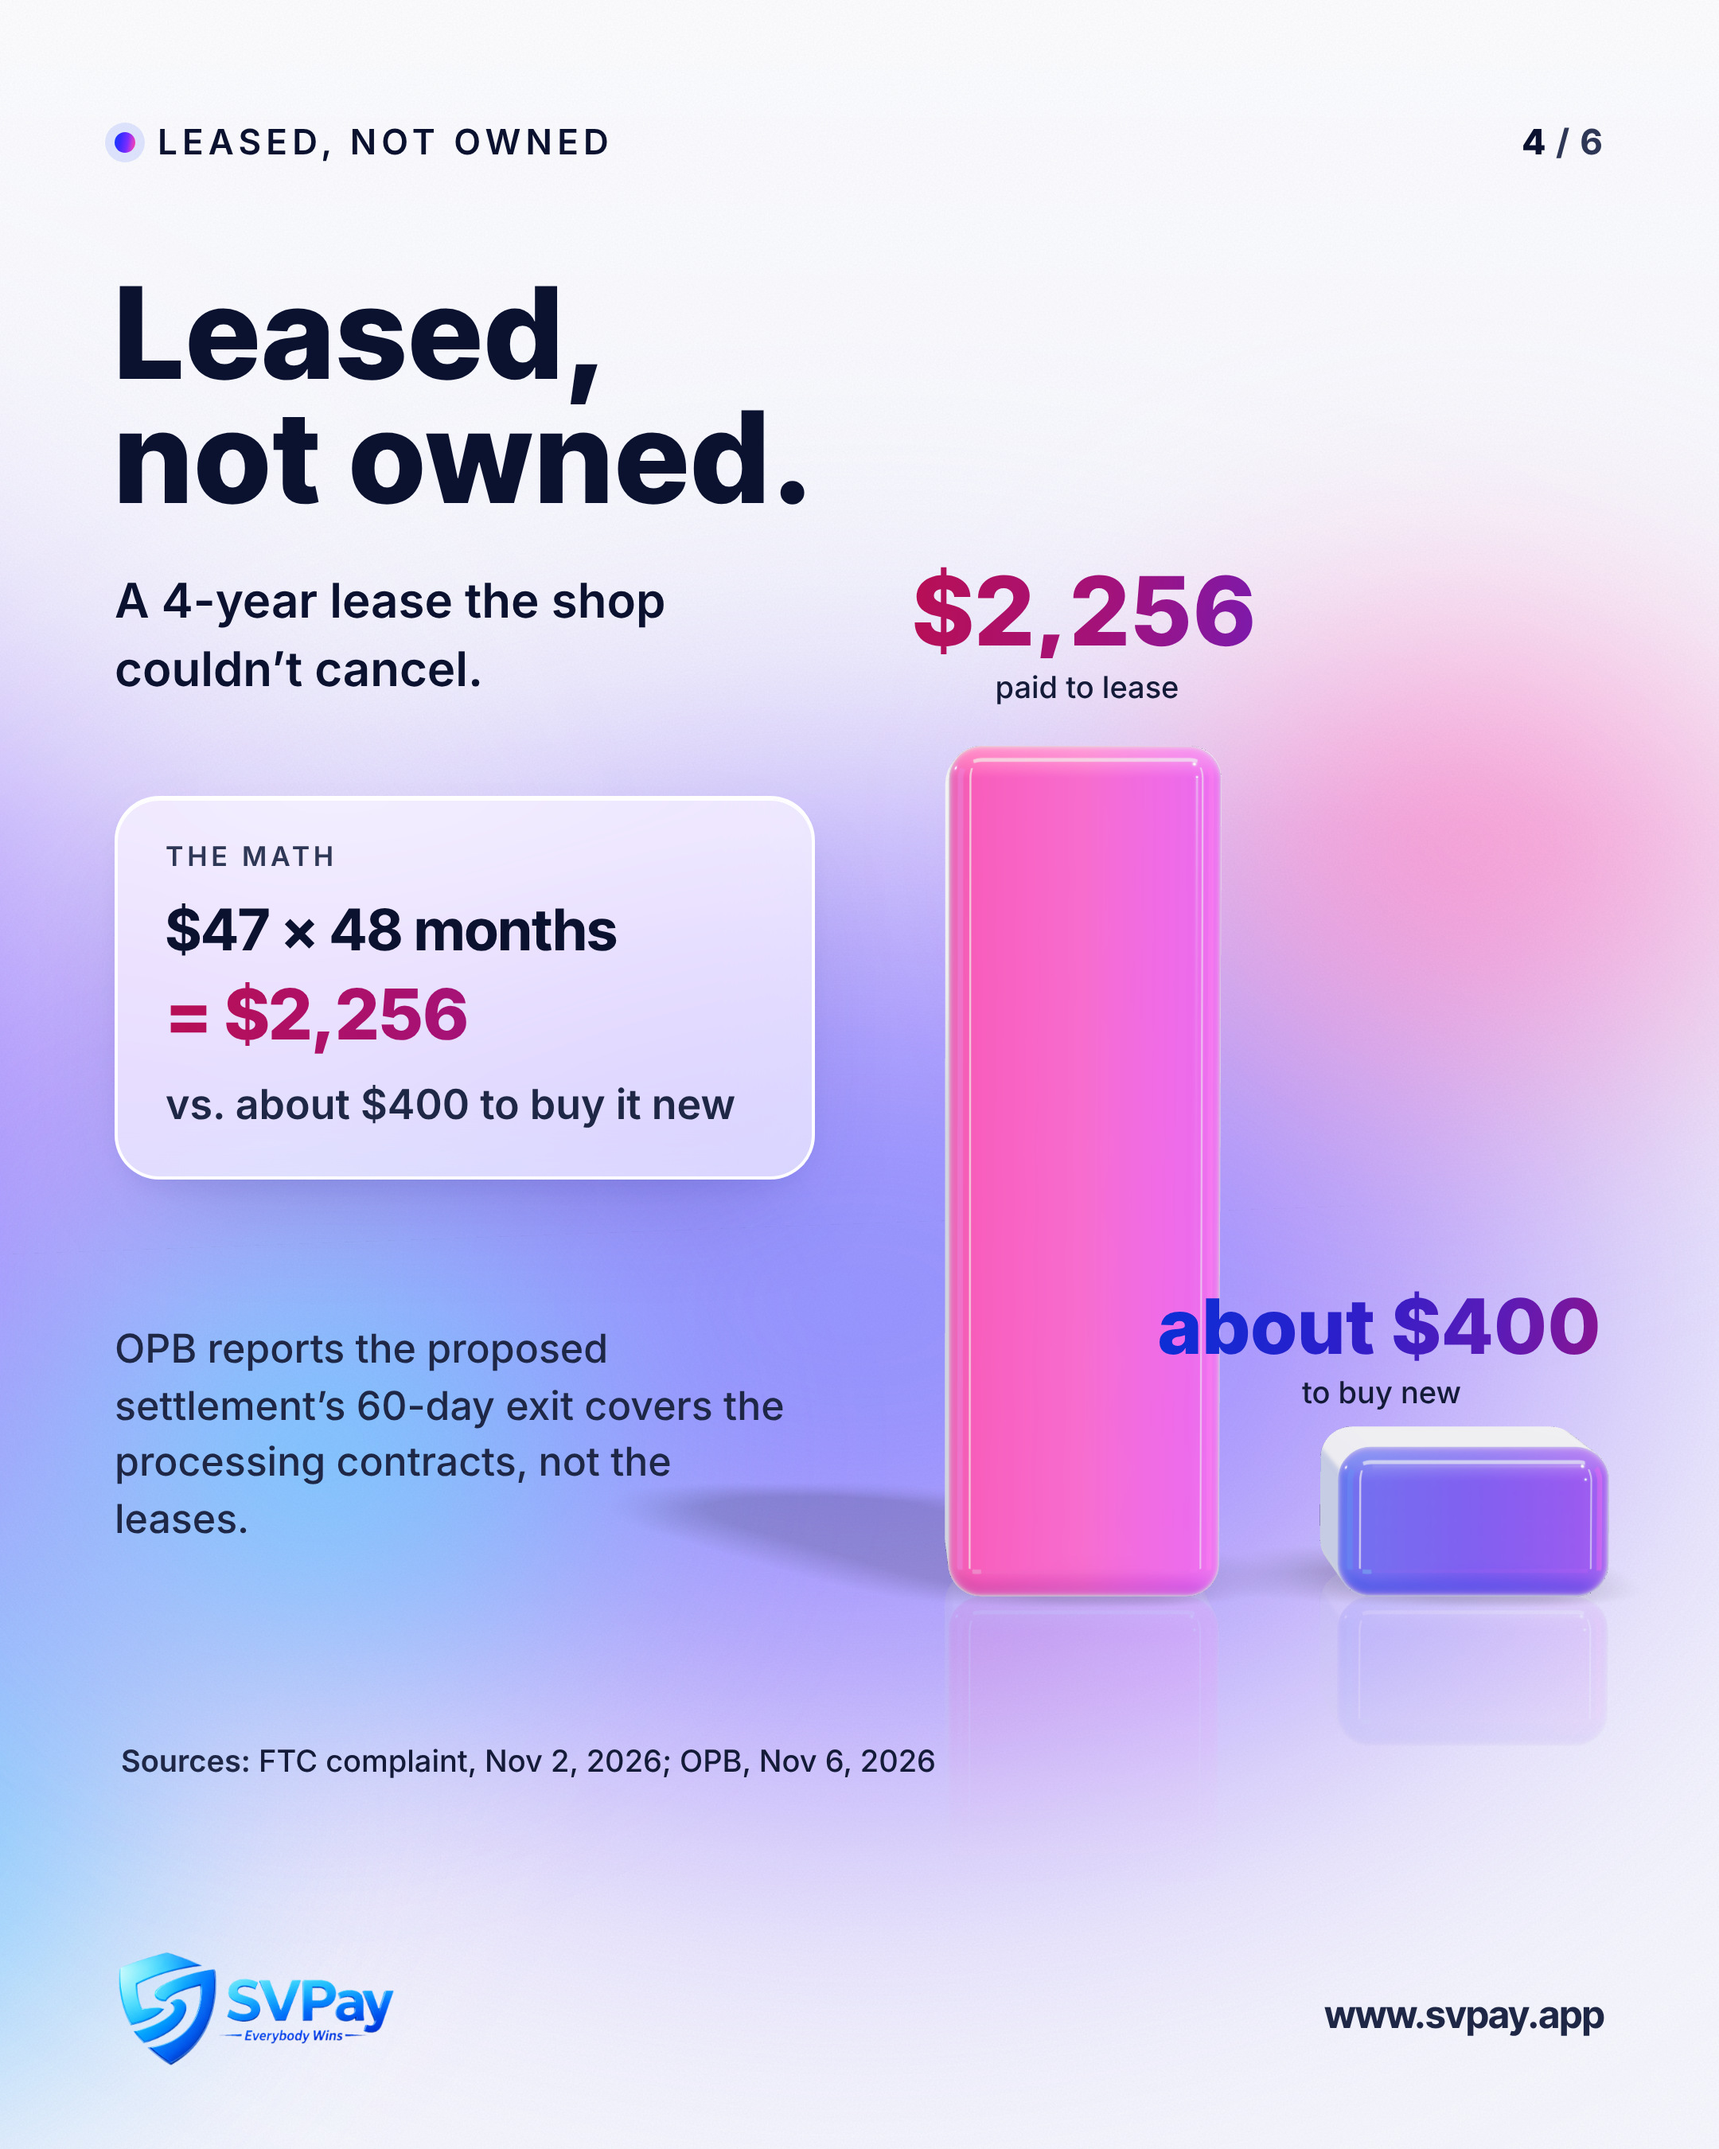
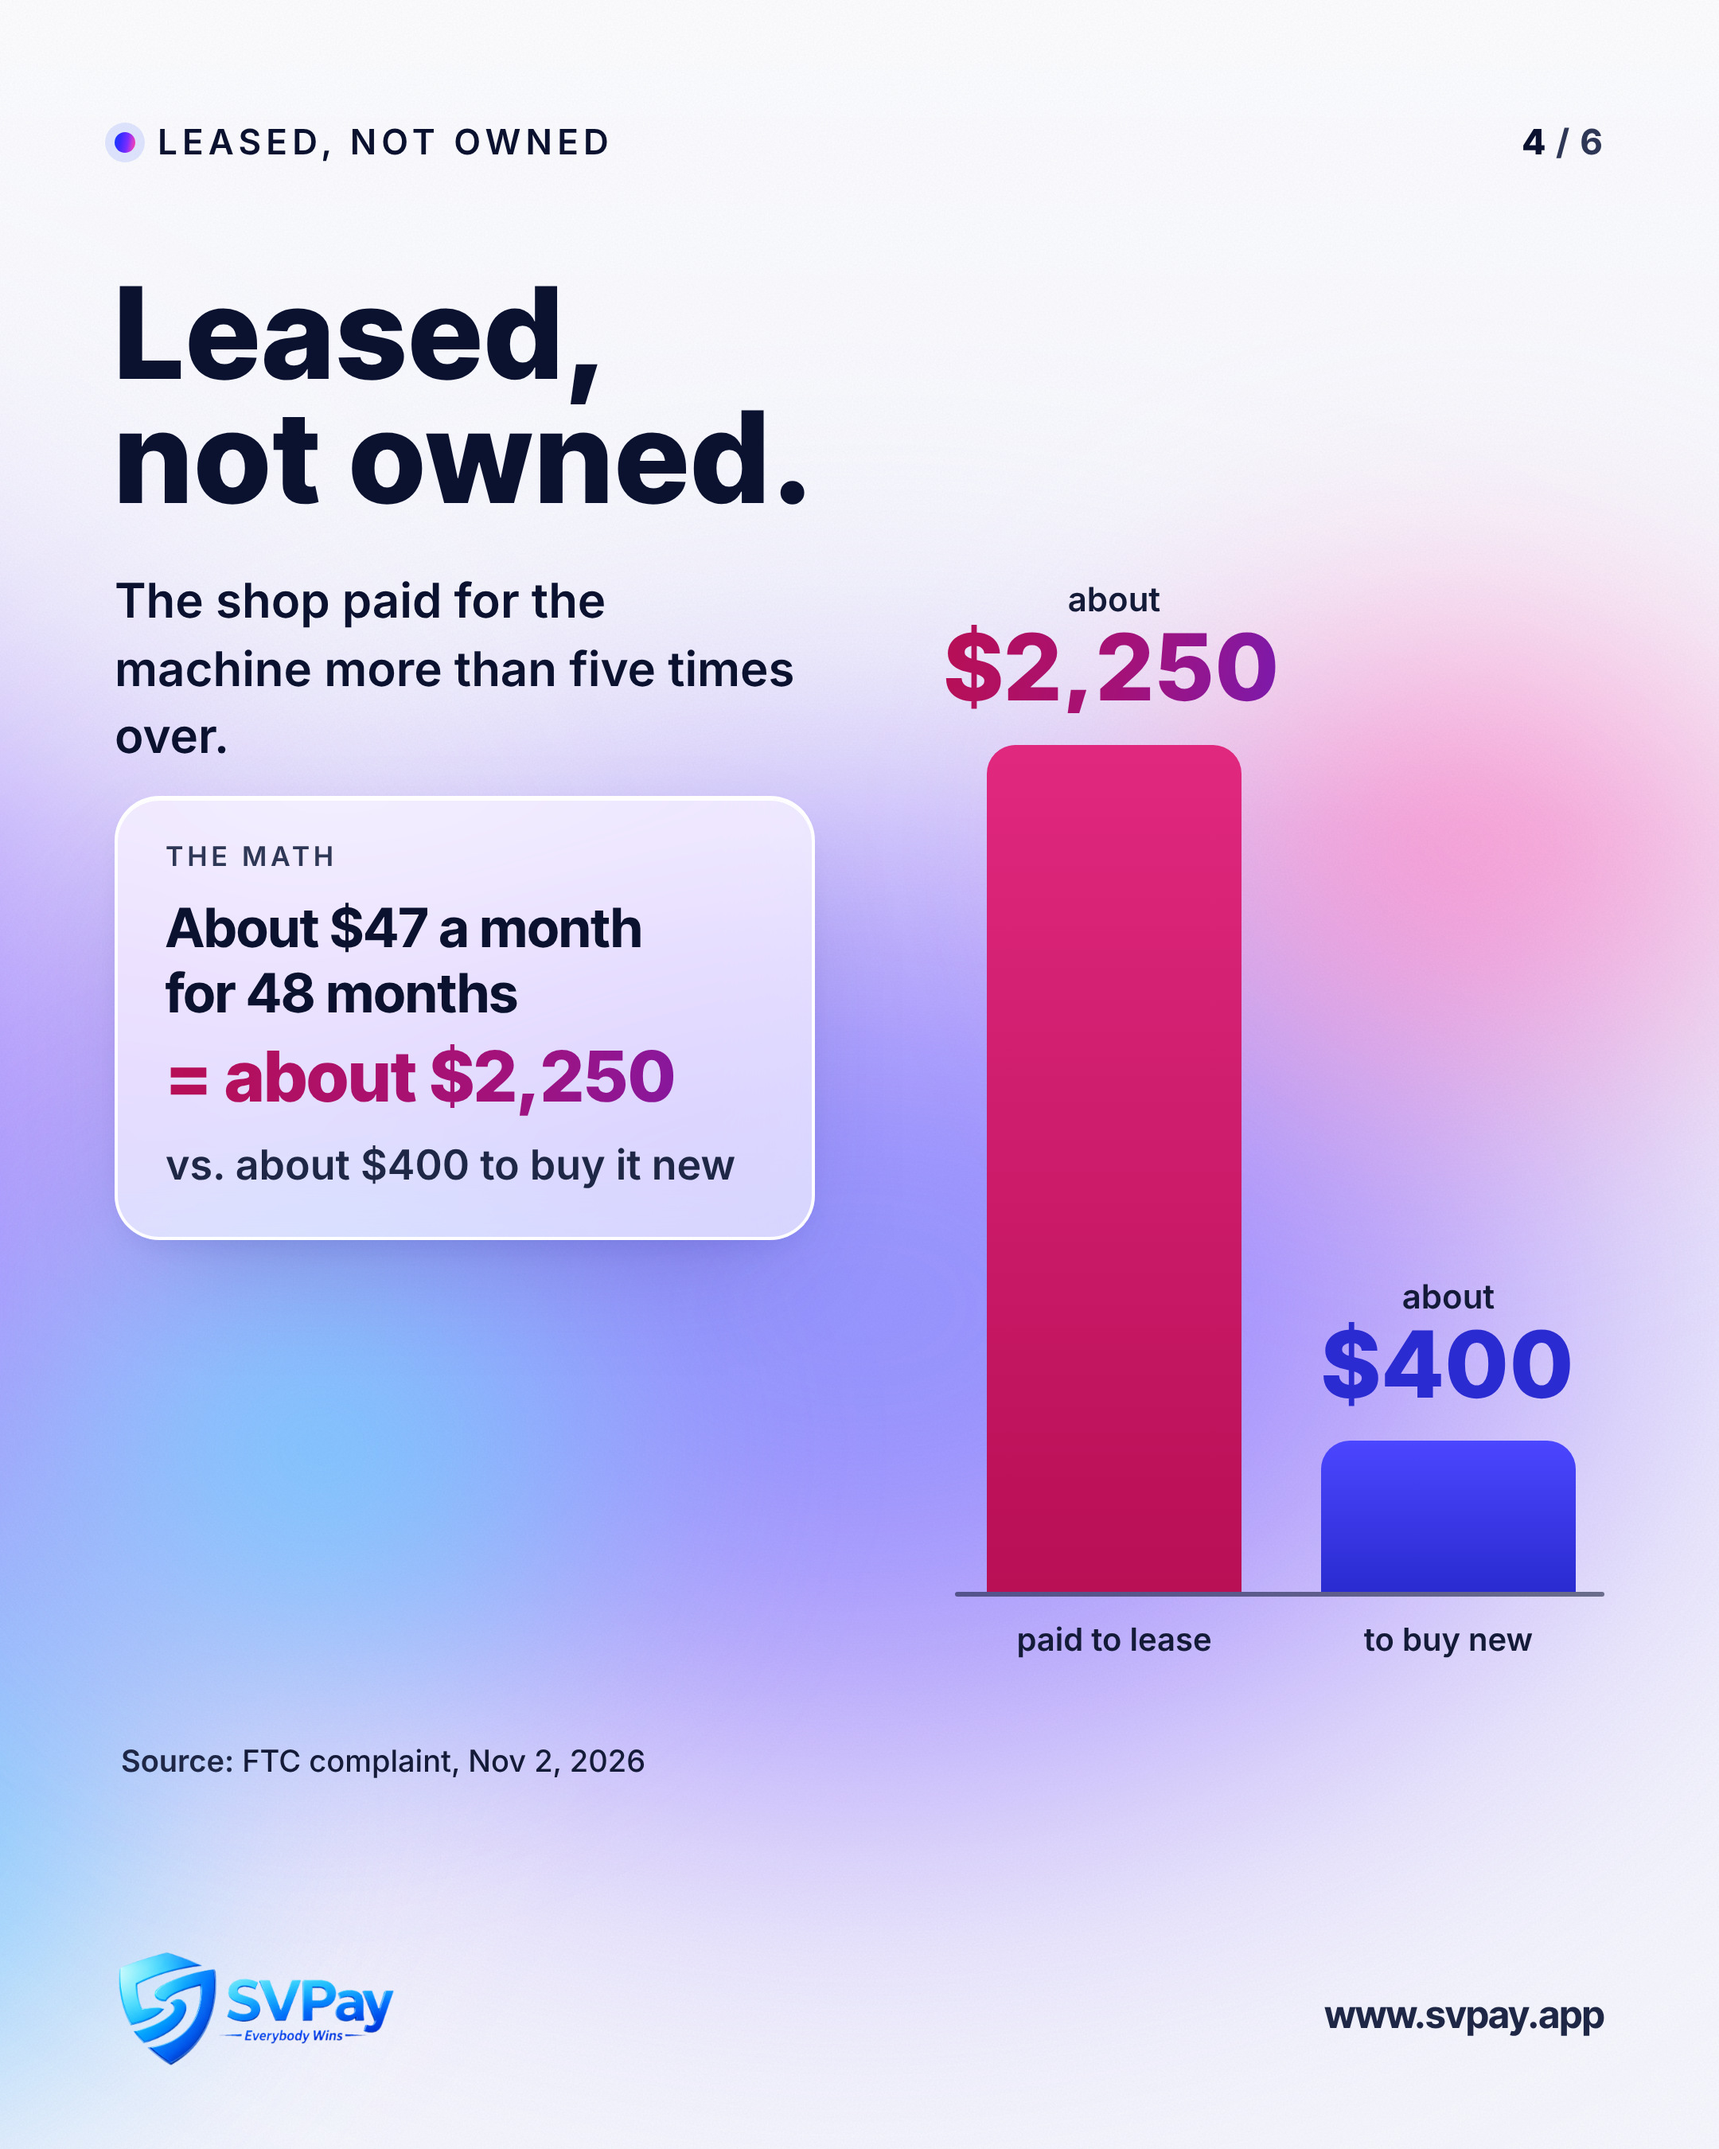
Nov 11 post, rewrite 2: plain voice, no pricing claims, 3D only where clean
- Texts: no SVPay answers block and no 0%, $0, free or "without the fee"
  claim anywhere, so no pricing line is needed. SVPay appears in one plain
  sentence ("I started SVPay, which builds payment software for shops"),
  stance early, Riverside's denial in one line, "about $2,250" everywhere,
  "leases like it couldn't be canceled, the FTC says", both halves of the
  pitch attributed to the FTC, the payments pro's four questions, no
  description of what the calculator does.
- Slides: 3D only on the $2,250 and $695 numerals, now built glyph by glyph
  with even gaps; slides 2, 5 and 6 have no 3D; slide 4 is a flat bar chart
  from a zero baseline (no $2,256, the settlement line moved off it);
  slide 6 is one closing question; GBP image carries "About $47 a month for
  4 years."; JPGs, slide words and alt text match the final renders.
- Contrast measured on every text box after rendering.

Claude-Session: https://claude.ai/code/session_01DDMXzrm3J6coEUnKLyEyim

diff --git a/pipeline/slides-riverside.html b/pipeline/slides-riverside.html
@@ -131,7 +131,7 @@ body{background:#E9ECF5;font-family:"Inter",sans-serif;color:var(--ink);-webkit-
 <div class="abs" style="left:600px;top:1000px;width:408px;height:3px;background:#0A1230;opacity:.55;border-radius:2px"></div>
 <div class="abs" style="left:620px;top:468px;width:160px;height:532px;border-radius:18px 18px 0 0;background:linear-gradient(180deg,#E0287F,#B80F55)"></div>
 <div class="abs" style="left:830px;top:905px;width:160px;height:95px;border-radius:18px 18px 0 0;background:linear-gradient(180deg,#4B46FF,#2A2BD0)"></div>
-<div class="abs" style="left:600px;top:362px;width:200px;text-align:center"><div class="src" style="font-size:21px;font-weight:600">about</div><div class="d hot" style="font-size:58px">$2,250</div></div>
+<div class="abs" style="left:560px;top:362px;width:280px;text-align:center"><div class="src" style="font-size:21px;font-weight:600">about</div><div class="d hot" style="font-size:58px;display:inline-block">$2,250</div></div>
 <div class="abs" style="left:810px;top:800px;width:200px;text-align:center"><div class="src" style="font-size:21px;font-weight:600">about</div><div class="d" style="font-size:58px;color:#2A2BD0">$400</div></div>
 <div class="abs src" style="left:600px;top:1016px;width:200px;text-align:center;font-size:20px;font-weight:600">paid to lease</div>
 <div class="abs src" style="left:810px;top:1016px;width:200px;text-align:center;font-size:20px;font-weight:600">to buy new</div>
@@ -161,8 +161,8 @@ body{background:#E9ECF5;font-family:"Inter",sans-serif;color:var(--ink);-webkit-
 <section class="slide" id="s6">
 <img class="hero" src="bg_6.png" alt="">
 <div class="top"><div class="tag"><i></i>Your shop</div><div class="count"><b>6</b> / 6</div></div>
-<div class="abs d" style="left:72px;top:250px;font-size:118px;width:940px">Is the card<br>machine on<br>your counter<br><span class="holo">leased or owned?</span></div>
-<div class="abs body" style="left:72px;top:820px;width:760px;font-size:34px;color:var(--ink)">Find the lease this week. Check who it’s with, how many months are left and what it costs to end.</div>
+<div class="abs d" style="left:72px;top:300px;font-size:96px;width:940px;white-space:nowrap">Is the card machine<br>on your counter<br><span class="holo">leased or owned?</span></div>
+<div class="abs body" style="left:72px;top:760px;width:760px;font-size:34px;color:var(--ink)">Find the lease this week. Check who it’s with, how many months are left and what it costs to end.</div>
 <div class="abs src" style="left:76px;top:1094px;width:560px"><b>Sources:</b> FTC complaint and press release, Nov 2, 2026; OPB, Nov 6, 2026</div>
 <img class="logo" src="svpay-logo.png" alt="SVPay, Everybody Wins">
 <div class="url">www.svpay.app</div>
